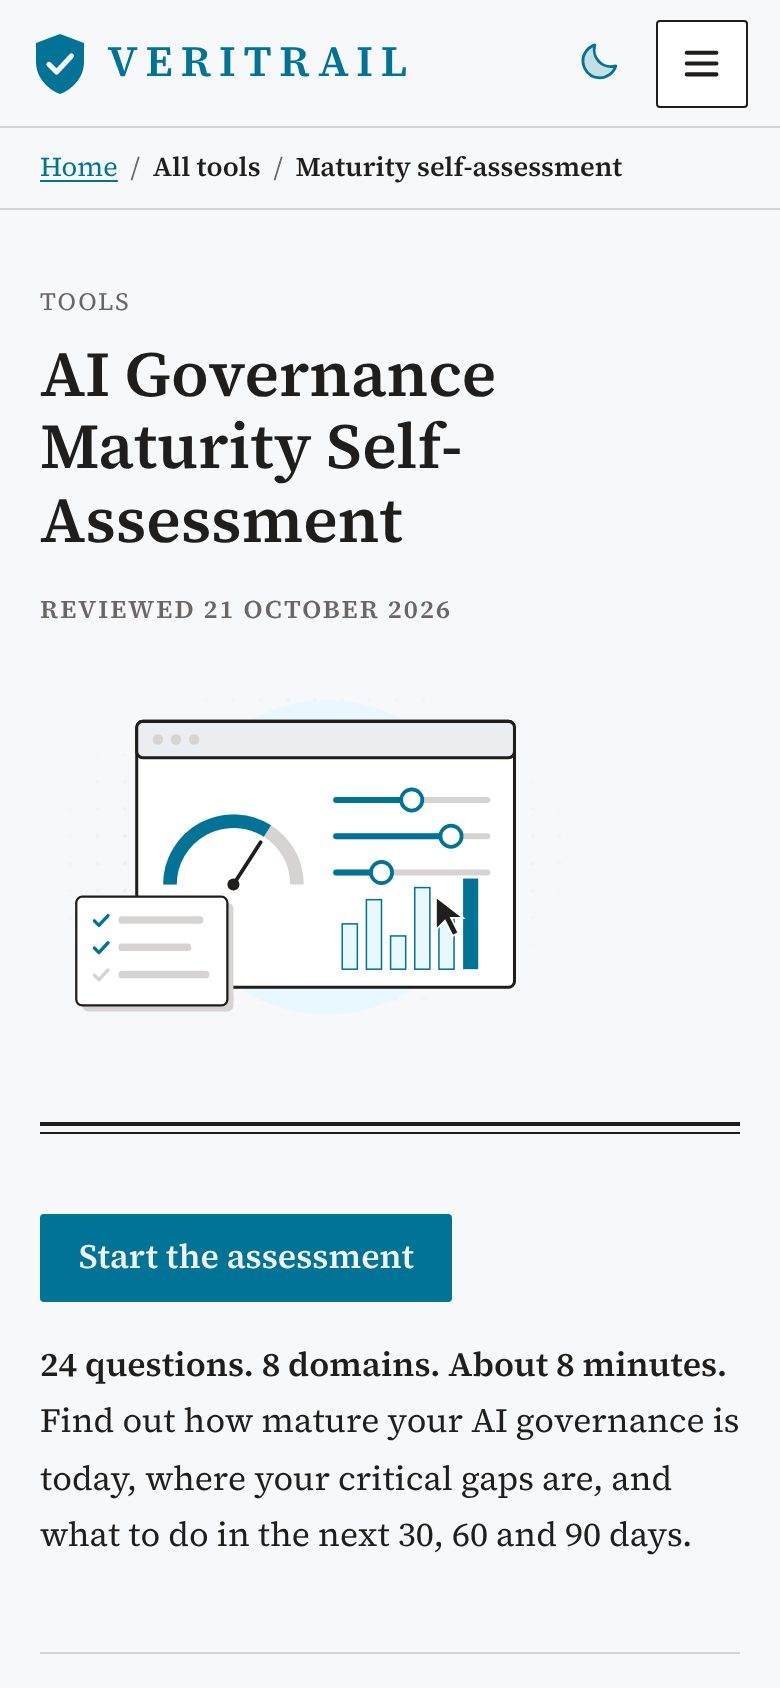
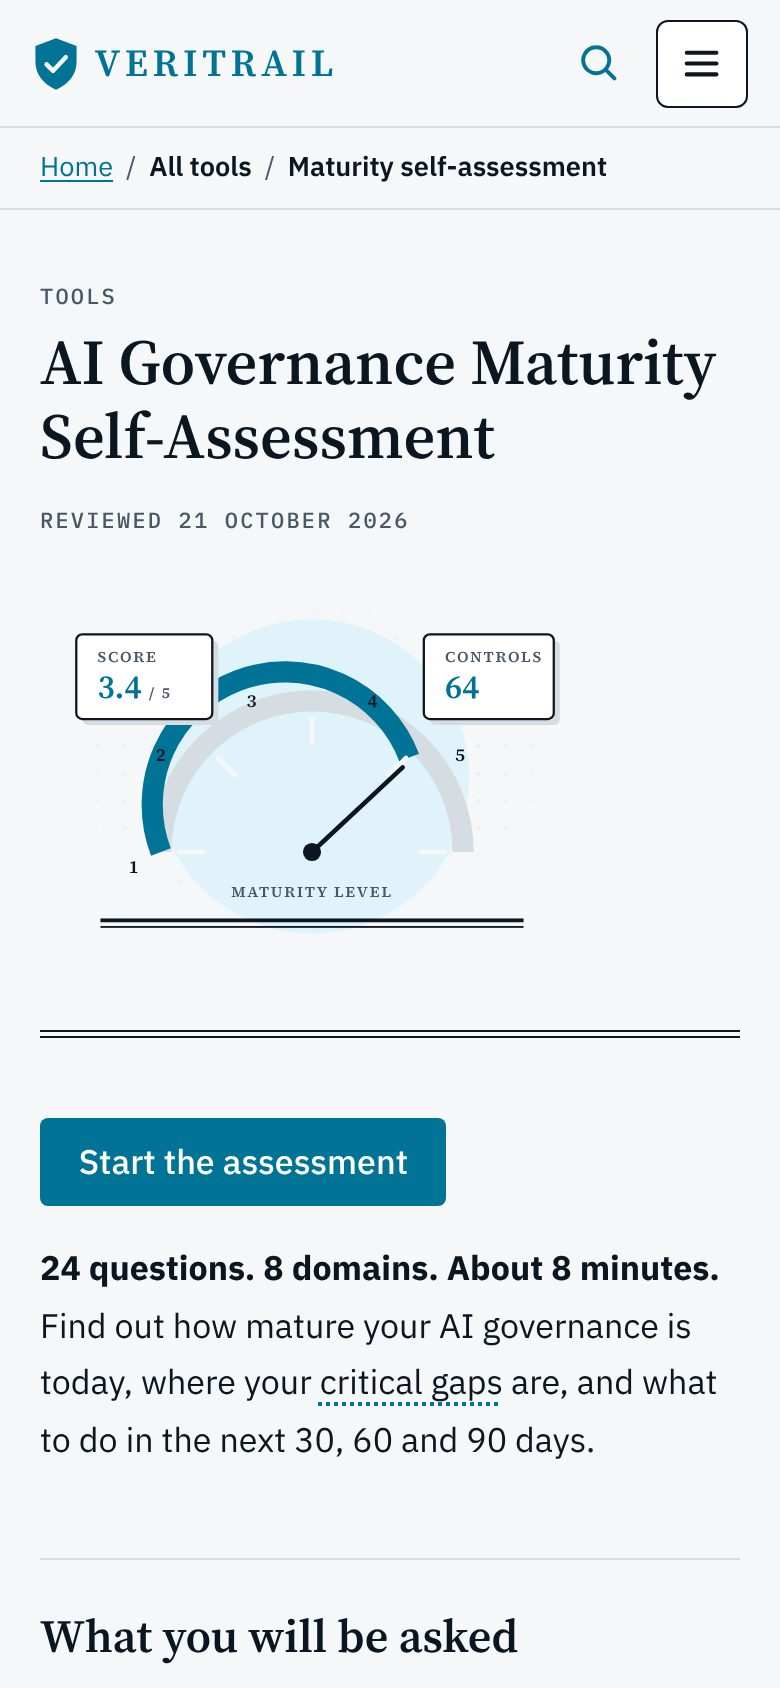
assurance: phase 6 — document the Assurance theme and refresh the product docs and screenshots
Describe the Assurance uplift phase by phase in docs/veritrail/UX_PWA_UPLIFT.md, record the new
conventions in AGENTS.md (default palette in :root, primitives, trail preview, brand marks and
the pending master-mark decision), update the Appearance capability and story in
docs/product/catalog.yaml and regenerate docs/product, update the README's appearance notes and
recapture the installable-app screenshots. No route was added, so the catalog's routes and
tools are unchanged.

Claude-Session: https://claude.ai/code/session_01WAXdxia6g1BLiJFn2933u9

diff --git a/AGENTS.md b/AGENTS.md
@@ -22,12 +22,14 @@
 - Keep reading aids (cards, steps, callouts, stacked tables, control links, "On this page") in the React renderer and templates, derived from the structure authors already write; do not add presentation markup to the governed Markdown, which the Python platform also renders.
 - Build site search (`src/features/search`) from the same governed content the pages render — pages, sections, FAQs, controls, glossary, workspace screens and platform tools — so results never drift; a control ID query ("is11") must rank that control first.
 - Keep glossary definitions in `platform/content/glossary.yaml`; the renderer underlines only the first mention of a term per page and never inside headings, links or code. All-caps terms match only in capitals; `auto: false` terms are listed but never underlined.
-- Define colours and fonts only as tokens in `src/styles.css`. The mode (`data-mode`: auto, light or dark; Auto follows `prefers-color-scheme` live and is the default), the effective `dark` class, palettes (`data-palette`) and fonts (`data-font`) are set on <html> by `src/lib/theme.ts` before first paint; each palette needs a light block and a `:root.dark` block with the same tokens, AA contrast, and matching swatches in `PALETTES` (`src/test/theme.test.ts` checks all three). Load non-default fonts only on demand.
-- Keep both headers (website and workspace) on one row at every width from 360 px; on phones, workspace actions go in the "More actions" menu. `npm run test:smoke` fails if a header wraps.
+- Define colours and fonts only as tokens in `src/styles.css`. The mode (`data-mode`: auto, light or dark; Auto follows `prefers-color-scheme` live and is the default), the effective `dark` class, palettes (`data-palette`) and fonts (`data-font`) are set on <html> by `src/lib/theme.ts` before first paint; Assurance is the default palette and lives in `:root` / `.dark` (no attribute); every other palette needs a light block and a `:root.dark` block with the same tokens, AA contrast, and matching swatches in `PALETTES` (`src/test/theme.test.ts` checks every palette, including the audit tokens: seal, info, EU AI Act risk tiers, viz track and target, nav-muted). The default font pairing (IBM Plex Sans, Source Serif 4, IBM Plex Mono) ships with the page; load the other fonts only on demand.
+- Keep both headers (website and workspace) on one row at every width from 360 px; on phones, workspace actions go in the "More actions" menu. `npm run test:smoke` fails if a header wraps at 1280, 834 or 390 px.
+- Build workspace screens from the Assurance primitives in `src/components/assurance` (StatusBadge, RiskTierTag, KpiTile, PillarScore, ControlRow, GateBanner, PageHeader, FilterTabs, EvidenceTimeline, ResponsiveDrawer), styled with Tailwind classes on the tokens only; a status is always a word, never a colour alone. A control's audit status comes from `controlStatus` in the governance model, and the evidence trail (`trail-store.ts`) is an in-memory preview until an append-only table exists; it is never written to a workspace snapshot.
+- Product marks live in `public/brand` and are placed through `src/features/site/brand-marks.tsx`; guardrail categories, Shield modes and policy decisions take their Phosphor glyph from `guardrailIcon`. Third-party frameworks are typographic labels only, never logos. The master mark (handoff options 1a / 1b / 1c) is still the owner's call: the current `favicon.svg` and PWA icons stay until then (`scripts/generate-pwa-icons.mjs --mark a|b|c` regenerates them).
 - Regenerate share images with `scripts/generate-social-images.mjs` against a running build when section illustrations change; `og:image` URLs must be absolute (`VITE_SITE_URL`).
 - Describe every route, tool and feature in `docs/product/catalog.yaml` and regenerate `docs/product` with `node scripts/build-product-docs.mjs`; `src/test/product-catalog.test.ts` fails otherwise.
 - Workspace save calls `save_veritrail_workspace` and falls back to `save_aegis_workspace` while migration `0009` is unapplied; keep that fallback until the live database has `0009`, then regenerate the Supabase types.
-- Draw illustrations as inline SVG coloured by the Broadsheet tokens (`src/features/site/illustrations.tsx`), so they follow light/dark mode and work offline; data-driven pictures (the control mosaic, home counts) must read from the governed content.
+- Draw illustrations as inline SVG coloured by the theme tokens (`src/features/site/illustrations.tsx`), so they follow light/dark mode and work offline; data-driven pictures (the control mosaic, home counts) must read from the governed content.
 - Demo evidence attachments and report outputs must remain explicitly labeled previews; the handoff specifies mock file behavior, not real signed exports.
 
 - Persist workspace snapshots through authenticated server functions and an atomic security-invoker SQL function; organization membership (`organization_members`, migration 0012) and RLS prevent cross-organization access. Members read; owner, admin and operator write; membership changes only through the security-definer functions.

diff --git a/docs/veritrail/UX_PWA_UPLIFT.md b/docs/veritrail/UX_PWA_UPLIFT.md
@@ -206,3 +206,22 @@ calls `self.registration.unregister()` in `activate`; browsers pick it up on the
 
 The full product picture — PRD, capabilities index, epics and user stories, and use cases — is in
 [docs/product](../product/README.md).
+
+## 5. The Assurance theme (design-system uplift)
+
+The visual system was migrated to **VERITRAIL Assurance** from the design handoff in
+[`docs/design/assurance`](../design/assurance/README.md): an audit and advisory look built on the
+same governed content. Nothing in `platform/content`, `src/data` or the routes changed; only
+tokens, components, layout, iconography, illustrations and the shell did (the handoff's "rule
+zero"). Work was done in phases, each gated by `npm test`, `npm run build` and `npm run test:smoke`.
+
+| Phase | What changed |
+|---|---|
+| 1 Tokens | The Assurance palette is the base in `src/styles.css` (`:root` / `.dark`): teal `#007396` on cool paper, command navy `#0D1D29` for navigation, seal gold for attestation, and audit tokens for status (effective / partial / gap / not tested / in review / attested), EU AI Act risk tiers, data-viz track and target. Broadsheet moved to its own `data-palette` blocks and stays selectable with Midnight Gold and Financial Slate; every palette defines the same tokens in light and dark and passes the AA checks in `src/test/theme.test.ts`. The default font pairing is IBM Plex Sans text, Source Serif 4 headings and IBM Plex Mono for control IDs, citations and timestamps, preloaded by the root route. |
+| 2 Primitives | `src/components/assurance`: StatusBadge and RiskTierTag (a word, never a colour alone), KpiTile, PillarScore (target tick; tone by distance to target), ControlRow, GateBanner, PageHeader (serif title over the 4px double rule, mono meta line), FilterTabs, EvidenceTimeline and ResponsiveDrawer (vaul on phones, a right-hand sheet elsewhere). Buttons use the 4px control radius, 32 / 40 / 48px heights and a gold `seal` variant. |
+| 3 Shell | A 248px command-navy sidebar from 1024px with the inset light-teal bar on the active item and mono counts (blocking controls, systems, open incidents and actions); the same sidebar as a 72px icon rail with tooltips from 640px; a 64px four-item bottom navigation (Overview, Assess, Systems, Evidence) with safe-area padding on phones, Roadmap and Workspace & account one tap away in "More actions". The 60px top bar is sticky and translucent with the ⌘K search field, the organisation overline and the Demo / Personal chip, on one row from 360px. The smoke test now also checks every page at 834px. |
+| 4 Screens | Overview: release-gate banner, KPI tiles, the VERITRAIL Index with its band meter, TILLER pillar scores, remediation phase cards, then the existing portfolio, evidence readiness, top gaps, quick links and change log. Assessment: pillar filter tabs, a control list beside a sticky detail panel from 1024px (master → detail with a back link below), status from the real scoring rules (`controlStatus`: attested, partial — capped when a 3 or 4 lacks evidence — gap, not tested). Inventory: system cards with tier tags, a details drawer with facts and a 2×2 disposition that writes to the trail. Evidence: export packs, a sign-off panel (disabled with the reason while blocking controls exist; seal button when ready; signed state shows who, UTC time and a pack fingerprint) and the append-only evidence trail — all labelled previews; the trail lives in this tab's memory until an append-only table exists and is never saved with a workspace. Home: a navy hero with an evidence register drawn from the control library, five-step "How it works" tabs, a stakeholder chip selector and a navy closing band; every word still comes from `index.md`. Section landing pages open on the navy band. |
+| 5 Brand | Product marks in `public/brand` (`brand-marks.tsx`) at 32–44px on the solutions pages, the Workspace menu (TILLER) and the Platform module table; `guardrailIcon(name)` maps guardrail categories, Shield modes and policy decisions to Phosphor glyphs; social images regenerated on the navy 1200×630 layout with eyebrow and title from each page's frontmatter. The master mark (options 1a / 1b / 1c in the handoff) is still to be chosen, so `favicon.svg` and the PWA icons are unchanged; `node scripts/generate-pwa-icons.mjs --mark a|b|c` regenerates them from the chosen mark. |
+
+Still to decide or build: the master mark (then icons and the social-image tile), and a
+server-side append-only trail table (migration) so the evidence trail stops being a preview.

diff --git a/README.md b/README.md
@@ -176,7 +176,7 @@ VERITRAIL functions as a full **Progressive Web App (PWA)**, providing native-li
 * **One-Click Installation**: Prompts on Chrome, Edge, Android, iOS Safari, and macOS Dock. Shortcuts point directly to Self-Assessment, Risk Triage, Control Library, Ask VERITRAIL, and the TILLER Workspace.
 * **Offline-First Reading**: Production service worker (`public/sw.js`) caches visited pages, illustrations, and client-side rule engines for instant offline access.
 * **Smart Search (⌘K / Ctrl+K)**: Instant fuzzy search across every page, FAQ, governance control ID, glossary definition, and workspace tool.
-* **Appearance — themes & fonts**: Three colour themes — **Broadsheet** (VERITRAIL teal), **Midnight Gold** and **Financial Slate**, inspired by financial risk interfaces — each in light and dark with an **Auto** mode that follows the device (the default), plus three fonts (**Editorial serif**, **KR Tools** DM Sans + Cormorant Garamond, **Modern sans** Inter). Applied before first paint, remembered per browser, WCAG AA in every theme.
+* **Appearance — themes & fonts**: Four colour themes — **Assurance** (the default: teal on cool paper, command-navy navigation and seal gold for attestation), **Broadsheet** (the original VERITRAIL teal on newsprint), **Midnight Gold** and **Financial Slate**, inspired by financial risk interfaces — each in light and dark with an **Auto** mode that follows the device (the default), plus four fonts (the **Assurance** pairing of IBM Plex Sans, Source Serif 4 and IBM Plex Mono, **Editorial serif**, **KR Tools** DM Sans + Cormorant Garamond, **Modern sans** Inter). Applied before first paint, remembered per browser, WCAG AA in every theme.
 
 | Mobile Home View | Workspace Install Card | iPhone Installation Guide |
 | :--------------: | :--------------------: | :-----------------------: |
@@ -261,7 +261,7 @@ VERITRAIL pairs a content-driven marketing website with client-side interactive 
 | :-------- | :------------- | :---------- |
 | **Frontend Framework** | [React 19](https://react.dev/) & [TanStack Start](https://tanstack.com/router) | Fullstack SSR + CSR framework powered by TanStack Router |
 | **Language** | [TypeScript 5.8](https://www.typescriptlang.org/) | Strict type safety across client, server, and governance engines |
-| **Styling & UI** | [Tailwind CSS v4](https://tailwindcss.com/) & [Radix UI](https://www.radix-ui.com/) | High-contrast design tokens, accessible primitives; Broadsheet, Midnight Gold and Financial Slate themes |
+| **Styling & UI** | [Tailwind CSS v4](https://tailwindcss.com/) & [Radix UI](https://www.radix-ui.com/) | High-contrast design tokens, accessible primitives; Assurance, Broadsheet, Midnight Gold and Financial Slate themes |
 | **Data Visualization** | [Recharts](https://recharts.org/) | SVG radar & bar charts for maturity scores and system risk distributions |
 | **Database & Auth** | [Supabase](https://supabase.com/) & [Drizzle ORM](https://orm.drizzle.team/) | Row-Level Security (RLS), atomic workspace saving, PostgreSQL migrations |
 | **Export Engines** | `exceljs`, `pptxgenjs`, `jspdf`, `docx` | One-click generation of client-ready XLSX, PPTX, PDF, and Word audit reports |

diff --git a/docs/product/CAPABILITIES_INDEX.md b/docs/product/CAPABILITIES_INDEX.md
@@ -138,7 +138,7 @@ Every app, tool and feature, then every website content page, the control librar
 | CAP-073 | Glossary definitions in text | Site-wide | Live | None | Prospective buyer | [E15](EPICS_AND_STORIES.md#e15--installable-app-search-and-reading-experience) | First mention of each term underlined with a definition on hover, focus or tap. |
 | CAP-074 | Reading aids | Site-wide | Live | None | Prospective buyer | [E01](EPICS_AND_STORIES.md#e01--public-website-and-governed-content) | Feature cards, step timelines, link cards, callouts, stacked tables, code copy, On this page, progress and back-to-top. |
 | CAP-075 | Section illustrations and share images | Site-wide | Live | None | Prospective buyer | [E01](EPICS_AND_STORIES.md#e01--public-website-and-governed-content) | Theme-aware SVG art for every section and 1200×630 share cards. |
-| CAP-077 | Appearance — themes and fonts | Site-wide | Live | This browser | Prospective buyer, AI governance lead | [E15](EPICS_AND_STORIES.md#e15--installable-app-search-and-reading-experience) | Three palettes (Broadsheet, Midnight Gold, Financial Slate); Auto (follows the device), light or dark; and three fonts (Editorial serif, KR Tools, Modern sans), applied before first paint. |
+| CAP-077 | Appearance — themes and fonts | Site-wide | Live | This browser | Prospective buyer, AI governance lead | [E15](EPICS_AND_STORIES.md#e15--installable-app-search-and-reading-experience) | Four palettes (Assurance, the default; Broadsheet; Midnight Gold; Financial Slate); Auto (follows the device), light or dark; and four fonts (the Assurance pairing of IBM Plex Sans and Source Serif 4, Editorial serif, KR Tools, Modern sans), applied before first paint. |
 | CAP-082 | Training — interactive courses | `/training` | Live | None | Prospective buyer, AI governance lead, Approver | [E15](EPICS_AND_STORIES.md#e15--installable-app-search-and-reading-experience) | Lists the courses the course-forge service generated for VERITRAIL (OpenMAIC studio) and plays a reviewed lesson in a sandboxed frame with an offline download; unreviewed drafts are listed but not played. |
 | CAP-083 | Governance games hub | `/games` | Live | None | Prospective buyer, AI governance lead | [E15](EPICS_AND_STORIES.md#e15--installable-app-search-and-reading-experience) | Lists every scenario-based governance game with its skill; favourites and recently played are remembered on the device only. |
 | CAP-084 | Governance learning arcade | `/academy` | Live | None | Prospective buyer, AI governance lead | [E15](EPICS_AND_STORIES.md#e15--installable-app-search-and-reading-experience) | Groups the governance games into skill tracks from framework fluency to incident readiness. |

diff --git a/docs/product/EPICS_AND_STORIES.md b/docs/product/EPICS_AND_STORIES.md
@@ -967,7 +967,7 @@ Acceptance criteria:
 
 Acceptance criteria:
 
-- Given the Appearance panel (website header or menu, workspace header, menu or More screen), when I pick Broadsheet, Midnight Gold or Financial Slate, Auto, light or dark, and Editorial serif, KR Tools or Modern sans, then the whole site and workspace restyle at once.
+- Given the Appearance panel (website header or menu, workspace header, menu or More screen), when I pick Assurance, Broadsheet, Midnight Gold or Financial Slate, Auto, light or dark, and the Assurance pairing, Editorial serif, KR Tools or Modern sans, then the whole site and workspace restyle at once.
 - Given Auto, the default until I choose, when my device switches between light and dark, then the page follows it straight away; choosing Light or Dark stops following.
 - Given a saved choice, when any page loads, then it is applied before the first paint, with a matching browser colour, and other open tabs follow.
 - Given any palette and mode, when checked, then text, links and buttons meet WCAG AA contrast.
